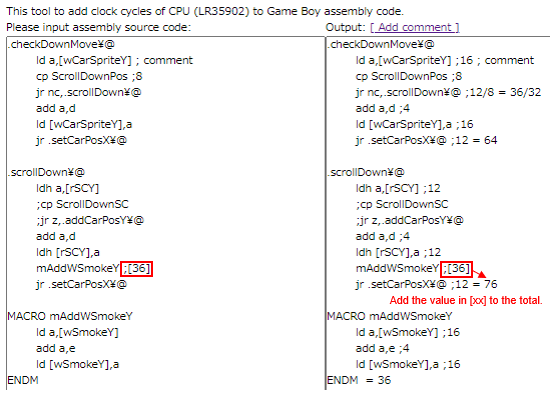
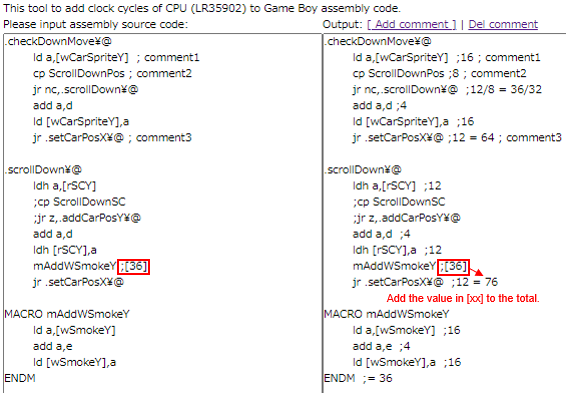
Supported delete clock cycles comment.

Changed region(s): [[0.0, 0.0, 0.9819, 1.0]]

diff --git a/GBAddClockCyclesTool/js/main.js b/GBAddClockCyclesTool/js/main.js
@@ -1,6 +1,6 @@
-//window.onload = function(){ add_comment(); } //debug
+//window.onload = function(){ comment('add'); } //debug
 
-function add_comment(){
+function comment(mode){
   var asm_txt = '';
   var asm_array = null;
   var result = '';
@@ -72,15 +72,19 @@ function add_comment(){
         sum += clock2;
       }else{
         sum += parseInt(clock);
-        clock_sum_str = clock_str+' = '+sum;
+        if(clock_str!=''){
+          clock_sum_str = clock_str+' = '+sum;
+        }else{
+          clock_sum_str = ';= '+sum;
+        }
       }
       if(reset_sum[ key ]){
         sum = 0;
       }
 
-      if((reset_sum[ key ]===undefined && row_org.indexOf(clock_str+" ") == -1 &&
+      if((mode=='add' && reset_sum[ key ]===undefined && row_org.indexOf(clock_str+" ") == -1 &&
       (row_org.indexOf(clock_str) == -1 || row_org.indexOf(clock_str)!=(row_org.length - clock_str.length)))
-      || (reset_sum[ key ]!==undefined && row_org.indexOf(clock_sum_str+" ") == -1 &&
+      || (mode=='add' && reset_sum[ key ]!==undefined && row_org.indexOf(clock_sum_str+" ") == -1 &&
       (row_org.indexOf(clock_sum_str) == -1 || row_org.indexOf(clock_sum_str)!=(row_org.length - clock_sum_str.length)))
       ){
         if(row_org.indexOf(';') != -1){
@@ -97,7 +101,31 @@ function add_comment(){
           }
         }
       }else{
-        result += row_org+"\n";
+        if(mode=='del'){
+          var match_array = row_org.match(/;/gi);
+
+          if(match_array!=null){
+            if(reset_sum[ key ]===undefined){
+              if(row_org.indexOf(clock_str)==(row_org.length - clock_str.length)
+              || match_array.length==2){
+                result += row_org.replace(clock_str, '')+"\n";
+              }else{
+                result += row_org.replace(clock_str, ';')+"\n";
+              }
+            }else{
+              if(row_org.indexOf(clock_sum_str)==(row_org.length - clock_sum_str.length)
+              || match_array.length==2){
+                result += row_org.replace(clock_sum_str, '')+"\n";
+              }else{
+                result += row_org.replace(clock_sum_str, ';')+"\n";
+              }
+            }
+          }else{
+            result += row_org+"\n";
+          }
+        }else{
+          result += row_org+"\n";
+        }
       }
     }else
     if(key=='' || add_clock!=0){

diff --git a/GBAddClockCyclesTool/index.html b/GBAddClockCyclesTool/index.html
@@ -15,7 +15,7 @@
 This tool to add clock cycles of CPU (LR35902) to Game Boy assembly code.<br>
 <table>
 <tr>
-<td>Please input assembly source code:</td><td>Output: <a href="#" onClick="add_comment()">[ Add comment ]</a></td>
+<td>Please input assembly source code:</td><td>Output: <a href="#" onClick="comment('add')">[ Add comment ]</a> | <a href="#" onClick="comment('del')">Del comment</a></td>
 </tr>
 <tr>
 <td><textarea name="asm" rows="40" cols="50"></textarea></td>
